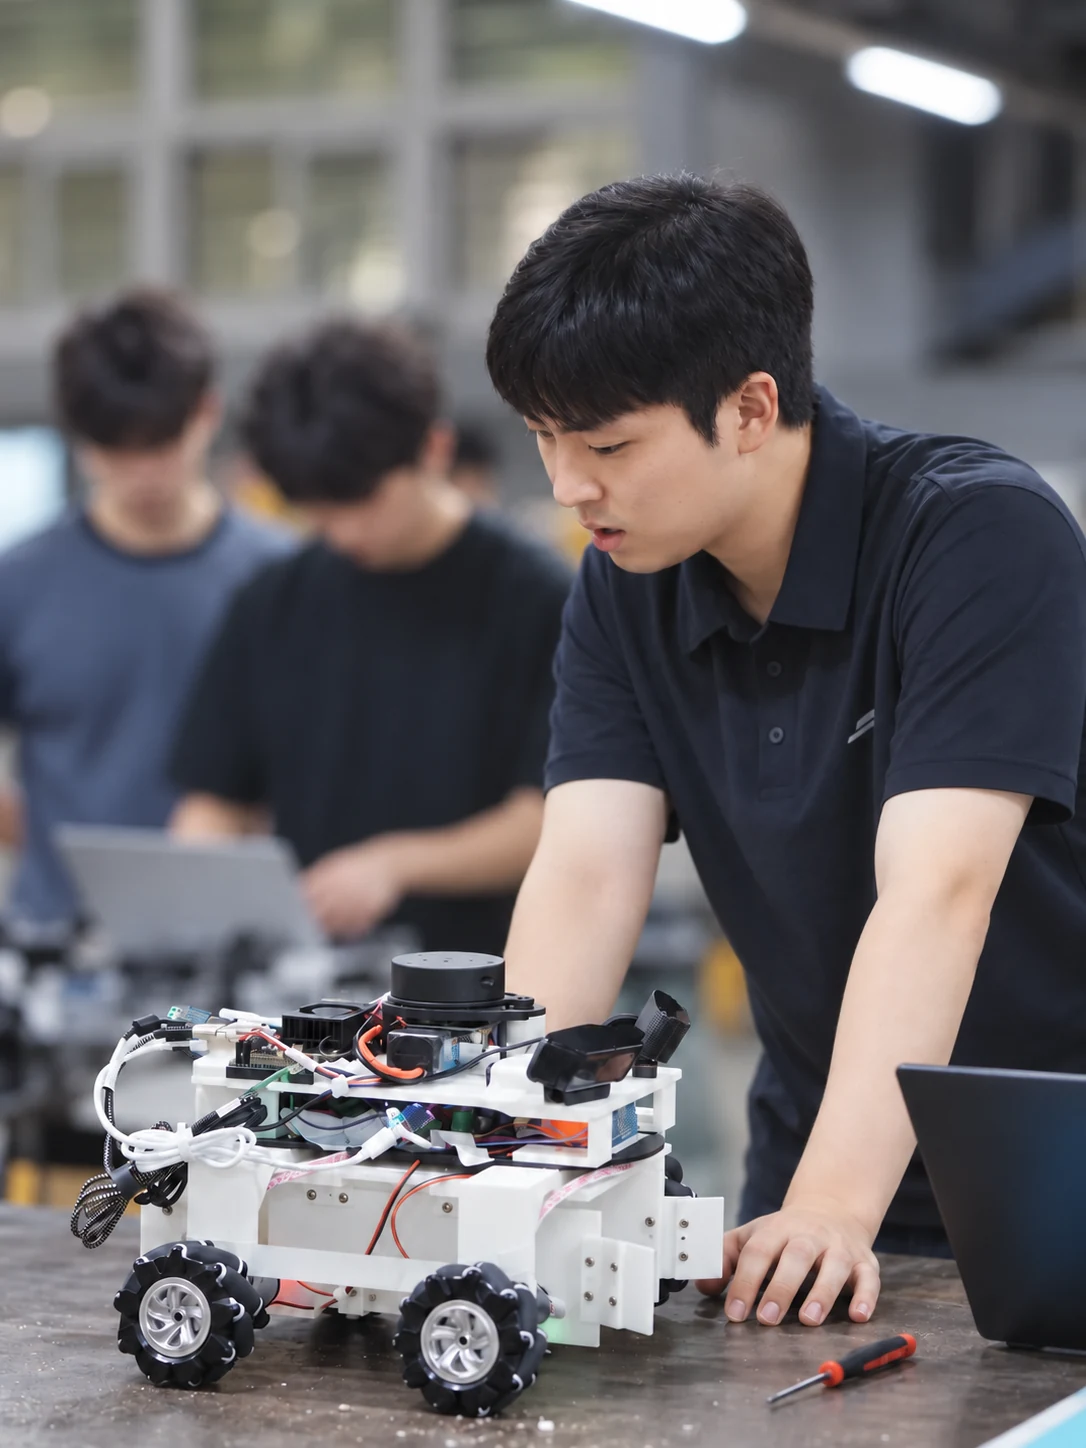
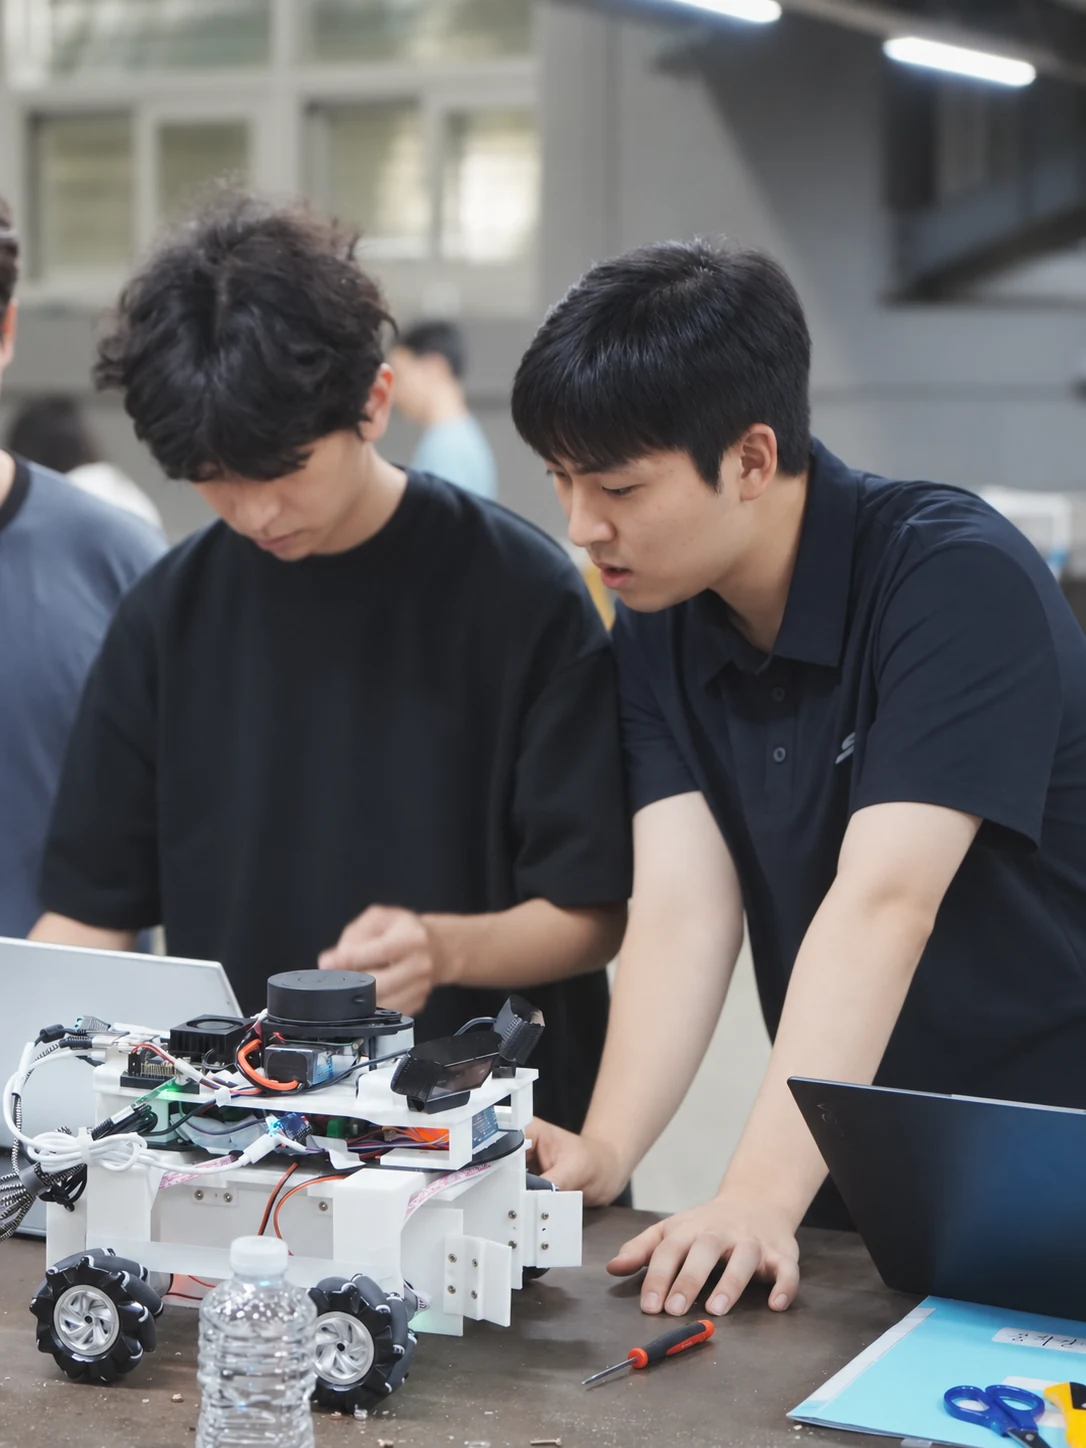
Update homepage profile photo

diff --git a/index.html b/index.html
@@ -43,7 +43,7 @@
           </div>
         </div>
         <figure class="hero-portrait">
-          <img src="assets/img/hyunsu-go-profile.webp?v=20261020-2" alt="Hyunsu Go working with a mobile robot in a laboratory" width="1086" height="1448" fetchpriority="high" decoding="async" />
+          <img src="assets/img/hyunsu-go-profile.webp?v=20261020-3" alt="Hyunsu Go working with a mobile robot in a laboratory" width="1086" height="1448" fetchpriority="high" decoding="async" />
         </figure>
       </section>
 
